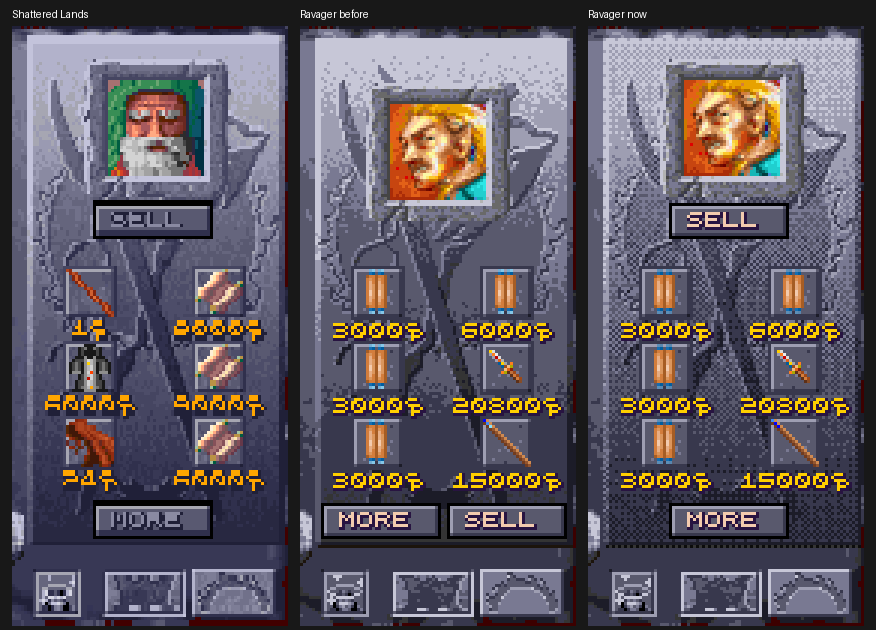
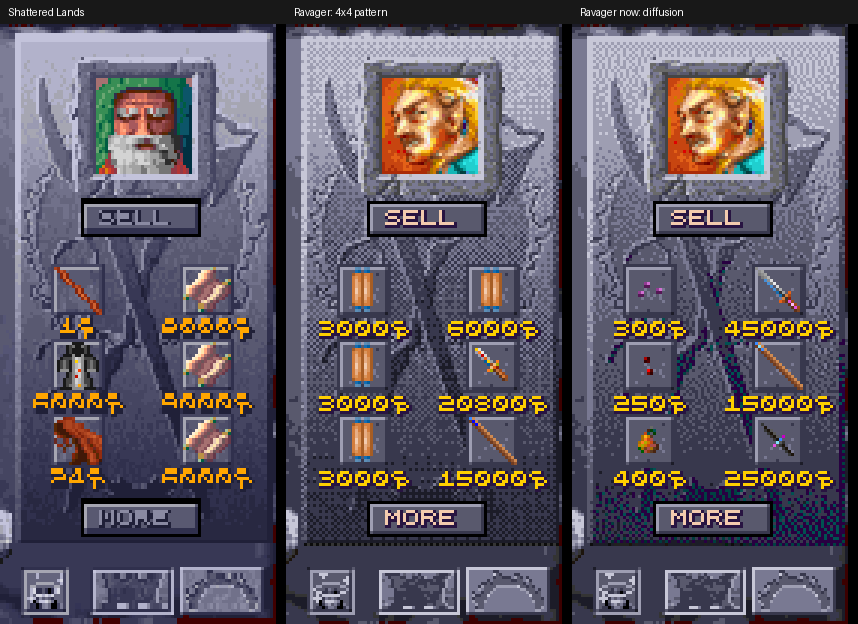
Sequel shop panel: error diffusion for Shattered Lands' shade and grain
The owner asked for the panel's shade and texture to match too. The 4 by 4
pattern read as a regular checker; Floyd-Steinberg over the kept colours
within 40 of each grey keeps the tone (mean (95.6, 95.4, 118.2) against
Shattered Lands' (94.7, 94.7, 119.7)) and gives a grain like its own.

Claude-Session: https://claude.ai/code/session_01MpsiU7Zrbfpjw8Zr88UYqt

diff --git a/obsidian-edition/manual/ravager.html b/obsidian-edition/manual/ravager.html
@@ -53,7 +53,7 @@
 </section>
 <section>
 <h2 id="the-mod-in-the-sequel">The mod in the sequel</h2>
-<ul><li><strong><a href="features.html#the-combat-log-in-the-game">The combat log in the game</a></strong>: L on the map shows the dice log's lines over the sequel's map too, as in Shattered Lands.</li><li><strong><a href="kits.html#in-wake-of-the-ravager">Kits</a></strong> come across with each character on its character sheet (with its spells and starting age), and work there nearly all whole: their fight rules, spell slots, spells known, PSP costs, hit dice and the gear each forbids or allows (a Ravager's shield and bow are refused). The Effects screen names each kit (<code>KIT: RAVAGER</code>). A new character takes one from KITS on the creation panel, and a human with no kit is asked for one right after DUAL. The Wanderer and the Spellarcher work only in part: <a href="kits.html#in-wake-of-the-ravager">kit by kit</a>.</li><li><strong><a href="weapon-specs.html#in-wake-of-the-ravager">Weapon specs</a></strong> come across and work there, in all twenty-two (the sequel's Twohand Sword and Crystal sword are two-handed swords). A new fighter, gladiator or ranger picks them on the weapon window after DONE, and its starting weapon becomes a +1 weapon of its first pick's kind, in the weapon hand (the sequel's own gear put it in the left hand, where it swung once a round).</li><li><strong>The <a href="features.html#new-wizard-spells">new wizard spells</a></strong> come across, and a preserver learns them there at a level up, at creation or from a spellbook: Notaku in Tyr sells one of each (Cat's Grace 6000, the others 3000), and three of the sequel's wizards carry one (<a href="#the-mods-gear-in-the-sequel">the mod's gear</a>).</li><li><strong>The creation screen</strong> has <a href="features.html#store-and-recall-on-the-creation-screen">STORE and RECALL</a>, and a new character gets <a href="features.html#fuller-starting-gear">fuller starting gear</a> fitted to its kit from the sequel's own items.</li><li><strong>The screens</strong> show it all as in Shattered Lands: the DAM lines (the kits' damage and a kit's expertise too), the creation screen's THAC0 (a Scholar's), the Effects screen's weapon kinds and an effect's charges in its name (<a href="features.html#the-effects-screen">the Effects screen</a>), and the Look box's whole description of a monster in the dialogue window.</li><li><strong><a href="features.html#choosing-an-enemy-tab-enter-and-the-rings">Choosing an enemy</a></strong> with Tab and Enter works in the sequel's fights, with the red ring and <a href="features.html#the-chance-to-hit-before-the-swing">the chance to hit</a> (without the Loader, Tab opens the sequel's own menu).</li><li>The Loader's copy of the sequel gives every character sheet six more bytes for all this, its own characters' too.</li><li><strong>The mod's items work as they did</strong>: who may wield them, the spells they cast on a hit or put on their wearer (taken off, the spell ends), the AC and saves of the rings, cloak, bracers and robes, the Veiled Robe's extra spells, the Boots of Speed, the girdles, the Amulet of Magic Resistance and the Tome of Understanding (+1 WIS). The sequel's own rules hold where they differ: Focus Heat burns for 2d6+6. The spell arrows (Chill, Shocking and Vampiric Arrows) cast their spell at the archer's preserver level, as in Shattered Lands; shot by a member with no preserver class they are plain arrows. The tome is read from its box (right-click it in the pack, then its icon) in a fight, on its reader's turn: outside a fight its icon does nothing.</li><li><strong>Hiding in shadows</strong> comes too, as in Shattered Lands: in a fight a thief or a ranger with no enemy beside them may hide and move silently, and then their next attack is from behind (a thief's, in melee with a light weapon, a backstab). The Cloak and Boots of Elvenkind work as they did: hidden 95% of the time under the open sky (90% under a roof), silent 95%. Tyr's streets, the forest, the Jann's desert, the Silt Sea islands and the clouds count as daylight.</li><li><strong><a href="features.html#thief-skills-from-adds-table">Thieves as in AD&amp;D</a></strong> hold in the sequel too: a thief's skills are the Player's Handbook's average for the thief level plus the race's and Dark Sun's DEX adjustment (no more than 95 after armour), the inventory shows those numbers, and a backstab multiplies the weapon's dice only (Enlarge's enlarged dice), STR's bonus and the weapon's plus added once, on the round's first attack; an Assassin's backstab multiplies them once more (x3 to x6), as in Shattered Lands.</li><li><strong><a href="features.html#picking-pockets">Picking pockets</a></strong> comes too: a thief's <strong>Pick Pockets</strong> button (the purse, where a cleric's Turn Undead is on the USE screen), then a click on anyone in sight, not in a fight, with the look pointer it gives: made, one small thing (a dagger, a sling, a ring; not a long sword nor anything worn) goes into the thief's backpack, or coins when there is nothing else, the last try on them; failed, a move silently roll to slip away, else caught, and that thief keeps from them until a thief level is gained. A cleric/thief keeps Turn Undead alone (no purse beside it), a right click on the purse shows no description, and there are no weapons worth XP to lift.</li><li><strong>A lock a thief failed</strong> is out of reach in the sequel too until that thief gains a level, as in Shattered Lands (with <a href="features.html#thief-skills-from-adds-table">Thieves as in AD&amp;D</a>); the dice log says why.</li><li><strong>Shattered Lands' fixes of the game's own bugs</strong> that the sequel shares come with it: a character's most PSP from its own scores, the computer's walls cast across the line of fire, a party thri-kreen's claws and bite that cut, the gladiator's armour optimisation only with armour on, a berserk creature back on its own side as Berserk ends, and the rest (<a href="game-bugs.html#shattered-lands-fixes-in-the-sequel">which</a>). The dice log there says when an effect starts and ends (<code>Thy'rokh gives Paralyzed to Draxan</code>, <code>Controlled ends on Draxan</code>), a member's PSP spent or regained, an ability score changing, and the monsters killed (<code>Draxan is killed</code>, counted in the fight's summary), as in Shattered Lands.</li><li><strong>Items weigh what they do in Shattered Lands.</strong> SSI left most of the sequel's items weighing nothing, though its program still reads weight as Shattered Lands' does. With the Loader a long sword, a mace, a shield and armour weigh as they do there, so the sequel's own rules (<a href="how-the-game-works.html#weight-and-carrying">weight and carrying</a>) work again: two heavy weapons (over 3 lb each: metal long swords, maces, axes) can't be held together, the item box says HEAVY, a backstab needs a weapon of 4 lb or less (no great axe, polearm or two-handed sword), and picking pockets goes by weight. The few weapons SSI made oddly light weigh as Shattered Lands' copies of them do (the two-handed sword 15 lb, the lotulis 10). As in Shattered Lands, no load is too heavy and nothing slows a loaded character.</li><li><strong><a href="features.html#weapon-traits">Weapon traits</a></strong> in the sequel too: the cahulaks' two heads and tangle, the staff sling's stinkpots, the polearm's reach, and on the sequel's own Lotulis, Double Spear and Trikal a specialist's <a href="features.html#lotulis-and-double-spear">second foe</a> and <a href="features.html#trikal">trip</a>, the trikal reaching two squares. The sequel's <strong>Double Spear</strong> swings beside its foe: SSI gave it a range of 2 squares, which the game took as a shot (once a round, DEX to hit and no STR damage; a double spear specialist under Computer Control swung once a round from 2 squares); with the Loader its range is 1, as Shattered Lands' double spear's, and it swings at the warrior's rate (<a href="weapon-specs.html#in-wake-of-the-ravager">In Wake of the Ravager</a>).</li><li><strong><a href="features.html#level-cap-by-xp">A level cap by XP</a></strong> of its own in the sequel: <strong>5,625,000 XP</strong>, shared between a character's classes as Shattered Lands' 749,999 is, in place of the game's stop at 15th. Levels go past the sequel's table (20th) to 30th by AD&amp;D's tables, as far as the share allows: most characters of three classes reach 15th, a fighter alone 30th (<a href="player-guide.html#in-wake-of-the-ravager">the table</a>). THAC0, thief skills, spell slots and <strong>saving throws</strong> go on by AD&amp;D's tables too (the game held every save at its table's last row, and a psionicist saved as a thief), and a preserver learns spells up to 9th level only: the sequel's four 10th-level spells stay the monsters'. A level up past 20th says "21st", not "21th".</li><li><strong><a href="features.html#the-leaders-cha-at-shops">Shops as in AD&amp;D</a></strong> hold in the sequel too: the party leader's CHA takes 5% (CHA 18) to 40% (25) off what a shop asks, a shop pays 60% of an item's price, and a magical item sold (a plus or a power: a scroll, a ring, a wand...) goes into the merchant's pack, listed again to be bought back. A shopkeeper's own discount in the sequel (Tasarla's for the Veiled Alliance) comes on top.</li><li><strong><a href="features.html#two-weapons">Two weapons</a></strong> as in Shattered Lands: -2 in the main hand and -4 in the off hand, DEX's adjustment, one attack a round with the off hand; a ranger has none of it only in light armour (leather, or armour of no material), as in Shattered Lands, where the sequel let a ranger off in any armour. And over the figures, a spell's charge used floats its count as in Shattered Lands (<code>Armor: 7 left</code>).</li><li><strong><a href="game-bugs.html#spells-and-psionics">Psionic Blast</a>'s imagined wounds</strong> come back as a fight ends in the sequel too ("Seneca shakes off Psionic Blast's imagined wounds as the fight ends"), and until then a blow that would kill the member knocks it out instead. The dice log's saving throws there show the d20 rolled and each modifier by name, as in Shattered Lands (<code>d20 = 13 +1 Ring of Protection -1 WIS 6 +1 CON 19 = 14, needs 13</code>), with a natural 1's line that went missing before, and the creation screen's rolls each score's four 4d4 (<code>best of four 4d4 (12, 9, 8, 7) = 12, +4 = 16</code>). Its attack lines break the THAC0 down as Shattered Lands' do (<code>THAC0 13, +3 STR, -2 stone, +2 difficulty = 10</code>), the cahulaks' heads named (<code>-2 cahulaks, main head at DEX 12</code>); a Battle Dancer in light armour has no head penalty with the cahulaks, as in Shattered Lands.</li><li><strong><a href="features.html#looting-a-body-t-and-shiftt">Looting with T and Shift+T</a>, <a href="features.html#selling-plain-gear-s">selling with S</a> and <a href="features.html#m-u-and-i-open-a-screen-close-it-again">M, U and I</a></strong> work in the sequel too (started from the Loader). A body's window opens with the eye (right-click twice). The items go into the backpacks and the dice log names them (<code>Ar'Anda takes Bow, Stone Lotulis, Bone Brigandine Armor (3), Arrow</code>). S sells the plain gear of the member on show and shuts the shop back to the talk. M is the sequel's own overhead map (its O). No purse sound plays in the sequel. Without the Loader, T and S are the game's keys and leave the window or the shop open.</li><li><strong>The sequel's messages are seen</strong>: its message box (a scroll's <a href="features.html#what-a-scroll-says">YOU LEARN THE SPELL</a> and the rest, a shop's I COULDN'T SELL THAT) was never on screen, drawn and gone at once; now it stays for the time the game's options set (five seconds at first) while the game waits, and with it <a href="features.html#preservers-int">a wizard's INT</a>'s YOU FAIL TO LEARN THE SPELL and TOO MANY SPELLS OF THAT LEVEL.</li><li><strong>The Loader's Dialogue and Journal tabs follow the sequel</strong>: every conversation with the replies offered and the one chosen (<code>You chose: Who are you?</code>), the speaker named once a talk shows whose face it is (<code>Caravan Master</code>; or name it with <strong>Name speaker...</strong>, kept apart from Shattered Lands' faces), and each message box in the journal and in the dice log (<code>Message: YOU ALREADY KNOW THIS SPELL</code>). The sequel's journal is one of its own from the Loader's start: it doesn't follow the sequel's saves as Shattered Lands' does (a game loaded there goes on in the same journal). The Spells and Memory tools tabs read the sequel's spells and records.</li><li><strong><a href="features.html#spells-on-the-effects-screen">Spells on the Effects screen</a></strong>: a click on a spell's icon leaves it on in the sequel too.</li><li><strong><a href="features.html#squares-in-reach">Squares in reach</a>, <a href="features.html#f10-takes-a-whole-move-back">F10</a> and <a href="features.html#showing-what-can-be-used-alt">Alt</a></strong> work in the sequel's fights too. On a party member's turn small crosses mark the squares they can still walk to, and R hides or shows them. After the last step the sequel opens its own <strong>END MOVE</strong> menu (GUARD, WAIT, END TURN), and F10 does nothing while it is up: Escape closes it, and F10 then puts the member back where the turn began, with the move to walk again (<code>F10: Lex's move taken back (can walk again)</code>). Without the Loader the sequel gives the points back but not the walk, so a click goes nowhere. A member held where they stand (Paralyzed, or Cannot Move) stays there. Out of a fight, holding Alt rings what can be used in gold and names it: things to take, doors, bodies to search, people to talk to.</li><li><strong>The sequel's figures drawn in Shattered Lands' style</strong>: its people, the party's figures, its creatures, the people lying or sitting in its scenes, the Tarrasque and its three drakes, redrawn to Shattered Lands' size and look (the Shattered Lands party figures, a mul or an elf of the sequel on the same body as Shattered Lands', its elementals Shattered Lands' own). The Loader puts them into its copies of the sequel's files each start (nothing in the sequel's folder changes), with the Mines' dining room laid out again for its smaller furniture, and Tyr's tables, chairs, beds and other furniture lowered to two-thirds of their height for Shattered Lands' steeper view (the walls keep theirs). 275 pictures and 54 lowered; the air and fire drakes seen fighting on their own maps.</li><li><strong>Shattered Lands' screens and icons in the sequel</strong>: the USE screen, the inventory, the status box, the END menu and the other screens the two games share draw Shattered Lands' own pictures (smoother, a little bluer stone), and 221 spell, psionic and button icons are Shattered Lands' drawings of the same thing, taken from your Shattered Lands folder each start and put in the sequel's colours. The MORE and scroll buttons stay the sequel's, since they sit on its own talk boxes. Without a Shattered Lands folder the sequel's own are used. The box "Shattered Lands' screens and icons in Wake of the Ravager", in the Options tab's Wake of the Ravager section, turns it off (from the sequel's next start).</li><li><strong>Talk portraits at Shattered Lands' size</strong>: the sequel's faces in its talk and message boxes were 72 by 72 in a box 72 high, the text starting a quarter of the way across. The Loader's copy draws them as Shattered Lands does: a 32 by 32 face in a 48-pixel stone frame at the box's top left, the box 58 high and the text from the same place as Shattered Lands' (five lines, as there). The empty frame at the end of a fight ("Each party member receives ... experience points!") and the merchant's face in a shop are the smaller size too. The faces are the sequel's own, made smaller each start, with the sequel's own frame cut down round them: each small pixel the average colour of the big pixels it covers, put back to the nearest colour the face itself uses, so it is smooth shading as in Shattered Lands' faces, not the big picture's dithering left as speckle (<a href="../docs/ravager-portrait-resample.png">the faces side by side</a>). <img src="../docs/ravager-small-portraits.png" alt="Before and after: Uhubito&#x27;s talk box and the XP message at the end of the first fight"> With no speaker the frame holds Shattered Lands' stone dark-sun emblem, as there (taken from the player's Shattered Lands with its interface; the sequel's grey wash without it), and the shop's right-hand panel is laid out as Shattered Lands': the merchant's face at the top, SELL under it, MORE alone at the bottom. <img src="../docs/ravager-no-speaker.png" alt="The no-speaker frame: Shattered Lands&#x27; and the sequel&#x27;s now"> <img src="../docs/ravager-shop-panel.png" alt="The shop&#x27;s right-hand panel: Shattered Lands&#x27;, the sequel&#x27;s before, the sequel&#x27;s now"></li><li><strong><a href="features.html#shadows">Shadows</a></strong> under the figures in the sequel too: every living creature on the map (the party, the people, the monsters; not the dead) casts its see-through shadow on the floor, laid long toward the lower right, beside the shadows the Loader's copy gives the sequel's walls (it draws none of its own).</li><li><strong><a href="features.html#dust">Dust</a></strong> in the sequel too: whoever walks over dirt or sand raises little puffs behind them (Tyr's squares and yards; its grey cobbles and the dark floors indoors take none).</li><li><strong><a href="features.html#magic-items-icons">Magic items' icons</a></strong> shine in the sequel's shops too (they stood still on a shop's screen), and twelve of its own magic items that never shone now do as the others: Dragonsbane, the Toothed Club, the Chatchka +1, the Gloves +3, three magic armours, the Boots, the Amulet, the Ioun Stone, the Necklace and the Rod.</li><li><strong><a href="features.html#see-through-figures">See-through figures</a></strong> in the sequel too: a party member hidden in shadows in a fight, and anyone invisible (unless the party detects invisibility), is drawn half see-through.</li><li><strong><a href="features.html#preservers-first-spells">Preservers' first spells</a> and <a href="features.html#psionic-powers-at-creation">psionic powers at creation</a></strong> are picked in the sequel too, in place of its own grants (a new 7th-level preserver's ten spells, some at random, and a psionicist's fixed eighteen powers). With the Loader, <strong>DONE</strong> opens <strong>CHOOSE A SPELL</strong> for as many as the game would have given, level by level, then <strong>PICK A PSIONIC POWER</strong>. <strong>EXIT</strong> leaves the rest to the game, and <strong>EDIT</strong> keeps the powers of a member whose classes and disciplines stay.</li></ul>
+<ul><li><strong><a href="features.html#the-combat-log-in-the-game">The combat log in the game</a></strong>: L on the map shows the dice log's lines over the sequel's map too, as in Shattered Lands.</li><li><strong><a href="kits.html#in-wake-of-the-ravager">Kits</a></strong> come across with each character on its character sheet (with its spells and starting age), and work there nearly all whole: their fight rules, spell slots, spells known, PSP costs, hit dice and the gear each forbids or allows (a Ravager's shield and bow are refused). The Effects screen names each kit (<code>KIT: RAVAGER</code>). A new character takes one from KITS on the creation panel, and a human with no kit is asked for one right after DUAL. The Wanderer and the Spellarcher work only in part: <a href="kits.html#in-wake-of-the-ravager">kit by kit</a>.</li><li><strong><a href="weapon-specs.html#in-wake-of-the-ravager">Weapon specs</a></strong> come across and work there, in all twenty-two (the sequel's Twohand Sword and Crystal sword are two-handed swords). A new fighter, gladiator or ranger picks them on the weapon window after DONE, and its starting weapon becomes a +1 weapon of its first pick's kind, in the weapon hand (the sequel's own gear put it in the left hand, where it swung once a round).</li><li><strong>The <a href="features.html#new-wizard-spells">new wizard spells</a></strong> come across, and a preserver learns them there at a level up, at creation or from a spellbook: Notaku in Tyr sells one of each (Cat's Grace 6000, the others 3000), and three of the sequel's wizards carry one (<a href="#the-mods-gear-in-the-sequel">the mod's gear</a>).</li><li><strong>The creation screen</strong> has <a href="features.html#store-and-recall-on-the-creation-screen">STORE and RECALL</a>, and a new character gets <a href="features.html#fuller-starting-gear">fuller starting gear</a> fitted to its kit from the sequel's own items.</li><li><strong>The screens</strong> show it all as in Shattered Lands: the DAM lines (the kits' damage and a kit's expertise too), the creation screen's THAC0 (a Scholar's), the Effects screen's weapon kinds and an effect's charges in its name (<a href="features.html#the-effects-screen">the Effects screen</a>), and the Look box's whole description of a monster in the dialogue window.</li><li><strong><a href="features.html#choosing-an-enemy-tab-enter-and-the-rings">Choosing an enemy</a></strong> with Tab and Enter works in the sequel's fights, with the red ring and <a href="features.html#the-chance-to-hit-before-the-swing">the chance to hit</a> (without the Loader, Tab opens the sequel's own menu).</li><li>The Loader's copy of the sequel gives every character sheet six more bytes for all this, its own characters' too.</li><li><strong>The mod's items work as they did</strong>: who may wield them, the spells they cast on a hit or put on their wearer (taken off, the spell ends), the AC and saves of the rings, cloak, bracers and robes, the Veiled Robe's extra spells, the Boots of Speed, the girdles, the Amulet of Magic Resistance and the Tome of Understanding (+1 WIS). The sequel's own rules hold where they differ: Focus Heat burns for 2d6+6. The spell arrows (Chill, Shocking and Vampiric Arrows) cast their spell at the archer's preserver level, as in Shattered Lands; shot by a member with no preserver class they are plain arrows. The tome is read from its box (right-click it in the pack, then its icon) in a fight, on its reader's turn: outside a fight its icon does nothing.</li><li><strong>Hiding in shadows</strong> comes too, as in Shattered Lands: in a fight a thief or a ranger with no enemy beside them may hide and move silently, and then their next attack is from behind (a thief's, in melee with a light weapon, a backstab). The Cloak and Boots of Elvenkind work as they did: hidden 95% of the time under the open sky (90% under a roof), silent 95%. Tyr's streets, the forest, the Jann's desert, the Silt Sea islands and the clouds count as daylight.</li><li><strong><a href="features.html#thief-skills-from-adds-table">Thieves as in AD&amp;D</a></strong> hold in the sequel too: a thief's skills are the Player's Handbook's average for the thief level plus the race's and Dark Sun's DEX adjustment (no more than 95 after armour), the inventory shows those numbers, and a backstab multiplies the weapon's dice only (Enlarge's enlarged dice), STR's bonus and the weapon's plus added once, on the round's first attack; an Assassin's backstab multiplies them once more (x3 to x6), as in Shattered Lands.</li><li><strong><a href="features.html#picking-pockets">Picking pockets</a></strong> comes too: a thief's <strong>Pick Pockets</strong> button (the purse, where a cleric's Turn Undead is on the USE screen), then a click on anyone in sight, not in a fight, with the look pointer it gives: made, one small thing (a dagger, a sling, a ring; not a long sword nor anything worn) goes into the thief's backpack, or coins when there is nothing else, the last try on them; failed, a move silently roll to slip away, else caught, and that thief keeps from them until a thief level is gained. A cleric/thief keeps Turn Undead alone (no purse beside it), a right click on the purse shows no description, and there are no weapons worth XP to lift.</li><li><strong>A lock a thief failed</strong> is out of reach in the sequel too until that thief gains a level, as in Shattered Lands (with <a href="features.html#thief-skills-from-adds-table">Thieves as in AD&amp;D</a>); the dice log says why.</li><li><strong>Shattered Lands' fixes of the game's own bugs</strong> that the sequel shares come with it: a character's most PSP from its own scores, the computer's walls cast across the line of fire, a party thri-kreen's claws and bite that cut, the gladiator's armour optimisation only with armour on, a berserk creature back on its own side as Berserk ends, and the rest (<a href="game-bugs.html#shattered-lands-fixes-in-the-sequel">which</a>). The dice log there says when an effect starts and ends (<code>Thy'rokh gives Paralyzed to Draxan</code>, <code>Controlled ends on Draxan</code>), a member's PSP spent or regained, an ability score changing, and the monsters killed (<code>Draxan is killed</code>, counted in the fight's summary), as in Shattered Lands.</li><li><strong>Items weigh what they do in Shattered Lands.</strong> SSI left most of the sequel's items weighing nothing, though its program still reads weight as Shattered Lands' does. With the Loader a long sword, a mace, a shield and armour weigh as they do there, so the sequel's own rules (<a href="how-the-game-works.html#weight-and-carrying">weight and carrying</a>) work again: two heavy weapons (over 3 lb each: metal long swords, maces, axes) can't be held together, the item box says HEAVY, a backstab needs a weapon of 4 lb or less (no great axe, polearm or two-handed sword), and picking pockets goes by weight. The few weapons SSI made oddly light weigh as Shattered Lands' copies of them do (the two-handed sword 15 lb, the lotulis 10). As in Shattered Lands, no load is too heavy and nothing slows a loaded character.</li><li><strong><a href="features.html#weapon-traits">Weapon traits</a></strong> in the sequel too: the cahulaks' two heads and tangle, the staff sling's stinkpots, the polearm's reach, and on the sequel's own Lotulis, Double Spear and Trikal a specialist's <a href="features.html#lotulis-and-double-spear">second foe</a> and <a href="features.html#trikal">trip</a>, the trikal reaching two squares. The sequel's <strong>Double Spear</strong> swings beside its foe: SSI gave it a range of 2 squares, which the game took as a shot (once a round, DEX to hit and no STR damage; a double spear specialist under Computer Control swung once a round from 2 squares); with the Loader its range is 1, as Shattered Lands' double spear's, and it swings at the warrior's rate (<a href="weapon-specs.html#in-wake-of-the-ravager">In Wake of the Ravager</a>).</li><li><strong><a href="features.html#level-cap-by-xp">A level cap by XP</a></strong> of its own in the sequel: <strong>5,625,000 XP</strong>, shared between a character's classes as Shattered Lands' 749,999 is, in place of the game's stop at 15th. Levels go past the sequel's table (20th) to 30th by AD&amp;D's tables, as far as the share allows: most characters of three classes reach 15th, a fighter alone 30th (<a href="player-guide.html#in-wake-of-the-ravager">the table</a>). THAC0, thief skills, spell slots and <strong>saving throws</strong> go on by AD&amp;D's tables too (the game held every save at its table's last row, and a psionicist saved as a thief), and a preserver learns spells up to 9th level only: the sequel's four 10th-level spells stay the monsters'. A level up past 20th says "21st", not "21th".</li><li><strong><a href="features.html#the-leaders-cha-at-shops">Shops as in AD&amp;D</a></strong> hold in the sequel too: the party leader's CHA takes 5% (CHA 18) to 40% (25) off what a shop asks, a shop pays 60% of an item's price, and a magical item sold (a plus or a power: a scroll, a ring, a wand...) goes into the merchant's pack, listed again to be bought back. A shopkeeper's own discount in the sequel (Tasarla's for the Veiled Alliance) comes on top.</li><li><strong><a href="features.html#two-weapons">Two weapons</a></strong> as in Shattered Lands: -2 in the main hand and -4 in the off hand, DEX's adjustment, one attack a round with the off hand; a ranger has none of it only in light armour (leather, or armour of no material), as in Shattered Lands, where the sequel let a ranger off in any armour. And over the figures, a spell's charge used floats its count as in Shattered Lands (<code>Armor: 7 left</code>).</li><li><strong><a href="game-bugs.html#spells-and-psionics">Psionic Blast</a>'s imagined wounds</strong> come back as a fight ends in the sequel too ("Seneca shakes off Psionic Blast's imagined wounds as the fight ends"), and until then a blow that would kill the member knocks it out instead. The dice log's saving throws there show the d20 rolled and each modifier by name, as in Shattered Lands (<code>d20 = 13 +1 Ring of Protection -1 WIS 6 +1 CON 19 = 14, needs 13</code>), with a natural 1's line that went missing before, and the creation screen's rolls each score's four 4d4 (<code>best of four 4d4 (12, 9, 8, 7) = 12, +4 = 16</code>). Its attack lines break the THAC0 down as Shattered Lands' do (<code>THAC0 13, +3 STR, -2 stone, +2 difficulty = 10</code>), the cahulaks' heads named (<code>-2 cahulaks, main head at DEX 12</code>); a Battle Dancer in light armour has no head penalty with the cahulaks, as in Shattered Lands.</li><li><strong><a href="features.html#looting-a-body-t-and-shiftt">Looting with T and Shift+T</a>, <a href="features.html#selling-plain-gear-s">selling with S</a> and <a href="features.html#m-u-and-i-open-a-screen-close-it-again">M, U and I</a></strong> work in the sequel too (started from the Loader). A body's window opens with the eye (right-click twice). The items go into the backpacks and the dice log names them (<code>Ar'Anda takes Bow, Stone Lotulis, Bone Brigandine Armor (3), Arrow</code>). S sells the plain gear of the member on show and shuts the shop back to the talk. M is the sequel's own overhead map (its O). No purse sound plays in the sequel. Without the Loader, T and S are the game's keys and leave the window or the shop open.</li><li><strong>The sequel's messages are seen</strong>: its message box (a scroll's <a href="features.html#what-a-scroll-says">YOU LEARN THE SPELL</a> and the rest, a shop's I COULDN'T SELL THAT) was never on screen, drawn and gone at once; now it stays for the time the game's options set (five seconds at first) while the game waits, and with it <a href="features.html#preservers-int">a wizard's INT</a>'s YOU FAIL TO LEARN THE SPELL and TOO MANY SPELLS OF THAT LEVEL.</li><li><strong>The Loader's Dialogue and Journal tabs follow the sequel</strong>: every conversation with the replies offered and the one chosen (<code>You chose: Who are you?</code>), the speaker named once a talk shows whose face it is (<code>Caravan Master</code>; or name it with <strong>Name speaker...</strong>, kept apart from Shattered Lands' faces), and each message box in the journal and in the dice log (<code>Message: YOU ALREADY KNOW THIS SPELL</code>). The sequel's journal is one of its own from the Loader's start: it doesn't follow the sequel's saves as Shattered Lands' does (a game loaded there goes on in the same journal). The Spells and Memory tools tabs read the sequel's spells and records.</li><li><strong><a href="features.html#spells-on-the-effects-screen">Spells on the Effects screen</a></strong>: a click on a spell's icon leaves it on in the sequel too.</li><li><strong><a href="features.html#squares-in-reach">Squares in reach</a>, <a href="features.html#f10-takes-a-whole-move-back">F10</a> and <a href="features.html#showing-what-can-be-used-alt">Alt</a></strong> work in the sequel's fights too. On a party member's turn small crosses mark the squares they can still walk to, and R hides or shows them. After the last step the sequel opens its own <strong>END MOVE</strong> menu (GUARD, WAIT, END TURN), and F10 does nothing while it is up: Escape closes it, and F10 then puts the member back where the turn began, with the move to walk again (<code>F10: Lex's move taken back (can walk again)</code>). Without the Loader the sequel gives the points back but not the walk, so a click goes nowhere. A member held where they stand (Paralyzed, or Cannot Move) stays there. Out of a fight, holding Alt rings what can be used in gold and names it: things to take, doors, bodies to search, people to talk to.</li><li><strong>The sequel's figures drawn in Shattered Lands' style</strong>: its people, the party's figures, its creatures, the people lying or sitting in its scenes, the Tarrasque and its three drakes, redrawn to Shattered Lands' size and look (the Shattered Lands party figures, a mul or an elf of the sequel on the same body as Shattered Lands', its elementals Shattered Lands' own). The Loader puts them into its copies of the sequel's files each start (nothing in the sequel's folder changes), with the Mines' dining room laid out again for its smaller furniture, and Tyr's tables, chairs, beds and other furniture lowered to two-thirds of their height for Shattered Lands' steeper view (the walls keep theirs). 275 pictures and 54 lowered; the air and fire drakes seen fighting on their own maps.</li><li><strong>Shattered Lands' screens and icons in the sequel</strong>: the USE screen, the inventory, the status box, the END menu and the other screens the two games share draw Shattered Lands' own pictures (smoother, a little bluer stone), and 221 spell, psionic and button icons are Shattered Lands' drawings of the same thing, taken from your Shattered Lands folder each start and put in the sequel's colours. The MORE and scroll buttons stay the sequel's, since they sit on its own talk boxes. Without a Shattered Lands folder the sequel's own are used. The box "Shattered Lands' screens and icons in Wake of the Ravager", in the Options tab's Wake of the Ravager section, turns it off (from the sequel's next start).</li><li><strong>Talk portraits at Shattered Lands' size</strong>: the sequel's faces in its talk and message boxes were 72 by 72 in a box 72 high, the text starting a quarter of the way across. The Loader's copy draws them as Shattered Lands does: a 32 by 32 face in a 48-pixel stone frame at the box's top left, the box 58 high and the text from the same place as Shattered Lands' (five lines, as there). The empty frame at the end of a fight ("Each party member receives ... experience points!") and the merchant's face in a shop are the smaller size too. The faces are the sequel's own, made smaller each start, with the sequel's own frame cut down round them: each small pixel the average colour of the big pixels it covers, put back to the nearest colour the face itself uses, so it is smooth shading as in Shattered Lands' faces, not the big picture's dithering left as speckle (<a href="../docs/ravager-portrait-resample.png">the faces side by side</a>). <img src="../docs/ravager-small-portraits.png" alt="Before and after: Uhubito&#x27;s talk box and the XP message at the end of the first fight"> With no speaker the frame holds Shattered Lands' stone dark-sun emblem, as there (taken from the player's Shattered Lands with its interface; the sequel's grey wash without it), and the shop's right-hand panel is laid out as Shattered Lands': the merchant's face at the top, SELL under it, MORE alone at the bottom. <img src="../docs/ravager-no-speaker.png" alt="The no-speaker frame: Shattered Lands&#x27; and the sequel&#x27;s now"> <img src="../docs/ravager-shop-panel.png" alt="The shop&#x27;s right-hand panel: Shattered Lands&#x27;, the sequel&#x27;s with a first pattern, the sequel&#x27;s now"></li><li><strong><a href="features.html#shadows">Shadows</a></strong> under the figures in the sequel too: every living creature on the map (the party, the people, the monsters; not the dead) casts its see-through shadow on the floor, laid long toward the lower right, beside the shadows the Loader's copy gives the sequel's walls (it draws none of its own).</li><li><strong><a href="features.html#dust">Dust</a></strong> in the sequel too: whoever walks over dirt or sand raises little puffs behind them (Tyr's squares and yards; its grey cobbles and the dark floors indoors take none).</li><li><strong><a href="features.html#magic-items-icons">Magic items' icons</a></strong> shine in the sequel's shops too (they stood still on a shop's screen), and twelve of its own magic items that never shone now do as the others: Dragonsbane, the Toothed Club, the Chatchka +1, the Gloves +3, three magic armours, the Boots, the Amulet, the Ioun Stone, the Necklace and the Rod.</li><li><strong><a href="features.html#see-through-figures">See-through figures</a></strong> in the sequel too: a party member hidden in shadows in a fight, and anyone invisible (unless the party detects invisibility), is drawn half see-through.</li><li><strong><a href="features.html#preservers-first-spells">Preservers' first spells</a> and <a href="features.html#psionic-powers-at-creation">psionic powers at creation</a></strong> are picked in the sequel too, in place of its own grants (a new 7th-level preserver's ten spells, some at random, and a psionicist's fixed eighteen powers). With the Loader, <strong>DONE</strong> opens <strong>CHOOSE A SPELL</strong> for as many as the game would have given, level by level, then <strong>PICK A PSIONIC POWER</strong>. <strong>EXIT</strong> leaves the rest to the game, and <strong>EDIT</strong> keeps the powers of a member whose classes and disciplines stay.</li></ul>
 </section>
 <section>
 <h2 id="the-mods-gear-in-the-sequel">The mod's gear in the sequel</h2>

diff --git a/obsidian-edition/dsloader/ravui.py b/obsidian-edition/dsloader/ravui.py
@@ -63,12 +63,12 @@ _MOVED = {
     21263: 3028, 21264: 3029, 21265: 3030, 21268: 3033}  # (the sequel's icon: Shattered Lands' of another number)
 ICONS: Dict[int, int] = {**{i: i for a, b in _SAME for i in range(a, b + 1)}, **_MOVED}
 ICON_KEEP = (12100, 12101, 12102)  # (never matched: the MORE and scroll buttons)
-# (the inventory and shop screens' right-hand panel, Shattered Lands' smooth grey: mapped colour for colour
-# its top came out lighter and its foot darker, 16 greys onto the sequel's 7, 2026-11-27's shop comparison;
-# DITHERED's pictures mix the two kept colours either side of each of Shattered Lands' instead: `dithered`)
+# (the inventory and shop screens' right-hand panel, Shattered Lands' smooth grainy greys: mapped colour for
+# colour its top came out lighter and its foot darker, 16 greys onto the sequel's 7, 2026-11-27's shop
+# comparison; DITHERED's pictures spread each pixel's miss onto the next ones instead: `dithered`; one frame
+# under 256 wide, as icons.encode writes)
 DITHERED = (13004,)
-NEAR = 40  # (a mix only of colours within this of Shattered Lands' in each of red, green and blue)
-BAYER = ((0, 8, 2, 10), (12, 4, 14, 6), (3, 11, 1, 9), (15, 7, 13, 5))
+NEAR = 40  # (only colours within this of Shattered Lands' own in each of red, green and blue: no stray hues)
 
 
 def colour_table(sl_palette: Sequence[Tuple[int, int, int]], stable: Sequence[Tuple[int, Tuple[int, int, int]]]) -> Dict[int, int]:
@@ -80,46 +80,35 @@ def colour_table(sl_palette: Sequence[Tuple[int, int, int]], stable: Sequence[Tu
             for i, rgb in enumerate(sl_palette)}
 
 
-def _mix(rgb: Tuple[int, int, int], targets: Sequence[Tuple[int, Tuple[int, int, int]]]) -> Tuple[int, int, float]:
-    """(a, b, t): RGB as a + t (b - a), a and b of TARGETS within NEAR of it (the nearest alone if none)."""
-    def far(e):
-        return sum((u - v) ** 2 for u, v in zip(e[1], rgb))
-    nearest = min(targets, key=far)
-    best = (far(nearest), nearest[0], -1, 0.0)
-    close = [e for e in targets if max(abs(u - v) for u, v in zip(e[1], rgb)) <= NEAR]
-    for a, ra in close:
-        for b, rb in close:
-            d = [y - x for x, y in zip(ra, rb)]
-            dd = sum(v * v for v in d)
-            if not dd:
-                continue
-            t = max(0.0, min(1.0, sum((p - x) * v for p, x, v in zip(rgb, ra, d)) / dd))
-            e = sum((p - (x + t * v)) ** 2 for p, x, v in zip(rgb, ra, d))
-            if e < best[0] - 1e-9:
-                best = (e, a, b, t)
-    return best[1], best[2], best[3]
-
-
 def dithered(chunk: bytes, sl_palette: Sequence[Tuple[int, int, int]],
              stable: Sequence[Tuple[int, Tuple[int, int, int]]]) -> bytes:
-    """A one-frame Shattered Lands picture in the sequel's STABLE colours (but KEPT's), each pixel one of the
-    two either side of its colour by a 4 by 4 ordered pattern, so a smooth shade keeps its tone."""
+    """A one-frame Shattered Lands picture in the sequel's STABLE colours (but KEPT's), each pixel the
+    nearest to its colour plus what its neighbours missed (Floyd-Steinberg: 7/16 right, 3/16, 5/16 and 1/16
+    below), from the colours within NEAR of its own: the shade kept, its grain much as Shattered Lands'."""
     from . import icons
     targets = [(c, rgb) for c, rgb in stable if c not in KEPT]
     if not targets:
         raise ValueError("no colour every region keeps")
-    mixes: Dict[int, Tuple[int, int, float]] = {}
+    rows = icons.decode(chunk)
+    height, width = len(rows), max((len(r) for r in rows), default=0)
+    miss = [[[0.0, 0.0, 0.0] for _ in range(width)] for _ in range(height)]
+    near: Dict[int, List[Tuple[int, Tuple[int, int, int]]]] = {}
     out = []
-    for y, row in enumerate(icons.decode(chunk)):
+    for y, row in enumerate(rows):
         line = []
         for x, p in enumerate(row):
             if not p:
                 line.append(p)
                 continue
-            if p not in mixes:
-                mixes[p] = _mix(sl_palette[p], targets)
-            a, b, t = mixes[p]
-            line.append(b if b >= 0 and t * 16 > BAYER[y % 4][x % 4] + 0.5 else a)
+            if p not in near:
+                near[p] = [e for e in targets if max(abs(a - b) for a, b in zip(e[1], sl_palette[p])) <= NEAR] or targets
+            want = [sl_palette[p][k] + miss[y][x][k] for k in range(3)]
+            c, rgb = min(near[p], key=lambda e: sum((a - b) ** 2 for a, b in zip(e[1], want)))
+            line.append(c)
+            for dx, dy, part in ((1, 0, 7 / 16), (-1, 1, 3 / 16), (0, 1, 5 / 16), (1, 1, 1 / 16)):
+                if 0 <= x + dx < width and y + dy < height:
+                    for k in range(3):
+                        miss[y + dy][x + dx][k] += (want[k] - rgb[k]) * part
         out.append(line)
     return icons.encode(out)
 

diff --git a/obsidian-edition/tests/test_ravui.py b/obsidian-edition/tests/test_ravui.py
@@ -49,7 +49,7 @@ class DitherTests(unittest.TestCase):
         rows = icons.decode(ravui.dithered(icons.encode([[5] * 8 for _ in range(8)]), sl_palette, stable))
         used = [p for r in rows for p in r]
         self.assertEqual(set(used), {235, 236})
-        self.assertEqual(used.count(235), 32)
+        self.assertLessEqual(abs(used.count(235) - 32), 2)  # (half and half, as the shade between)
 
     def test_a_colour_with_none_near_is_the_nearest(self):
         sl_palette = [(0, 0, 0)] * 256

diff --git a/playtest/logs/2026-11-27-ravager-no-speaker-shop.md b/playtest/logs/2026-11-27-ravager-no-speaker-shop.md
@@ -25,6 +25,14 @@ sequel match.
 4. **The shop now**: the face in its frame at (252, 11), SELL under it, MORE alone at the bottom (it pages
    the list), the panel's greys mixed by a 4 by 4 pattern (its tone nearer Shattered Lands'; the pattern
    shows close up). ![the shop now](img/2026-11-27-ravager-shop-panel.png)
+   The owner then asked for the shade and texture to match too: the pattern traded for error diffusion
+   (Floyd-Steinberg over the kept colours within 40 of each grey). Measured against Shattered Lands' panel,
+   the mean colour (94.7, 94.7, 119.7): rounded (96.9, 96.8, 114.9), the pattern (96.3, 96.3, 116.0), the
+   diffusion (95.6, 95.4, 118.2); the miss over 4 by 4 blocks 6.0, 2.9, 2.7. In game its grain reads as
+   Shattered Lands' does. ![shop panels: SL, pattern, diffusion](img/2026-11-27-ravager-panel-texture.png)
+   No palette slot is free for Shattered Lands' own greys: PAL 1000's 32-95 are magenta placeholders
+   that every region palette fills, 1-31 are cycled, and the 101 colours every region keeps hold 7
+   blue-greys (233-239) and the system greys.
 5. **The no-speaker picture**: `RAV_POKE=88E6F=33f690` (every face the empty one) and Notaku's shop: the
    frame with Shattered Lands' emblem in it, drawn by the game (frame 1 of the copy's BMP 12000). The talk
    box draws the same frame 1 at (8, 6) (the XP message, played in the earlier log).

diff --git a/CHANGELOG.md b/CHANGELOG.md
@@ -94,8 +94,10 @@ page](obsidian-edition/RAVAGER.md) have the detail.
   under it and MORE alone at the bottom (WIND 13500's two buttons moved, the face's two shop patches
   pointed there; the item list was already at Shattered Lands' places).
 - The panel's picture (BMP 13004, Shattered Lands' since `sl_interface`) keeps its shade: its 16 greys
-  were rounded to the sequel's 7 (the top lighter, the foot darker), now each mixes the two either side
-  (`ravui.DITHERED`).
+  were rounded to the sequel's 7 (the top lighter, the foot darker); now each pixel takes the nearest
+  of the sequel's colours near its own plus what its neighbours missed (Floyd-Steinberg,
+  `ravui.DITHERED`), so the shade holds and the grain reads like Shattered Lands' (a 4 by 4 pattern,
+  tried first, showed as a regular checker: the owner asked for the texture too).
 - Played against Shattered Lands' own shop and the earlier build. Tests: `test_ravportraits.py`,
   `test_ravui.py`.
 

diff --git a/obsidian-edition/RAVAGER.md b/obsidian-edition/RAVAGER.md
@@ -282,7 +282,7 @@ bigger character sheets) as it goes in (a game already running lists it from its
   right-hand panel is laid out as Shattered Lands': the merchant's face at the top, SELL under it, MORE
   alone at the bottom.
   ![The no-speaker frame: Shattered Lands' and the sequel's now](docs/ravager-no-speaker.png)
-  ![The shop's right-hand panel: Shattered Lands', the sequel's before, the sequel's now](docs/ravager-shop-panel.png)
+  ![The shop's right-hand panel: Shattered Lands', the sequel's with a first pattern, the sequel's now](docs/ravager-shop-panel.png)
 - **[Shadows](FEATURES.md#shadows)** under the figures in the sequel too: every living creature on the map (the
   party, the people, the monsters; not the dead) casts its see-through shadow on the floor, laid long
   toward the lower right, beside the shadows the Loader's copy gives the sequel's walls (it draws none of
